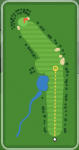
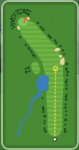
Course: hole 5's shortcut is a separate fairway island again (owner); kit keeps blend-0 fairways apart
Claude-Session: https://claude.ai/code/session_01Rv6NgAADw2XvfsDiNgoB5v

Changed region(s): [[0.3038, 0.3733, 0.557, 0.5067]]

diff --git a/tests/mtn.test.js b/tests/mtn.test.js
@@ -135,17 +135,21 @@ test('mtn-04: the lay-up leaves a wedge, a short pitch stays dry, a good 3 Wood 
   assert.ok(wet >= 8, `the creek is ${wet} m wide`);
 });
 
-test('mtn-05: carrying the pond reaches the fairway island; a weak carry is wet; the safe drive is longer in', () => {
-  const h = HOLES['mtn-05'], over = { x: -48, z: -226 };
-  for (const pk of [0.95, 0.9]) {
-    const e = shot(startAt(h, { x: 0, z: 0 }, 0), { at: over, club: 'driver', power: pk });
-    assert.equal(e.surface, 'fairway', `a ${pk * 100}% carry ends on ${e.surface}`);
-  }
-  assert.equal(shot(startAt(h, { x: 0, z: 0 }, 0), { at: over, club: 'driver', power: 1 }).ev, 'stopped', 'a full carry stays dry');
-  const brave = shot(startAt(h, { x: 0, z: 0 }, 0), { at: over, club: 'driver', power: 1 });
+test('mtn-05: the island beyond the pond is a separate target; missing it is dry rough; a weak carry is wet (owner)', () => {
+  const h = HOLES['mtn-05'], over = { x: -60, z: -217 };
+  const on = shot(startAt(h, { x: 0, z: 0 }, 0), { at: over, club: 'driver', power: 0.95 });
+  assert.equal(on.surface, 'fairway', `a 95% carry ends on ${on.surface}`);
+  for (const pk of [1, 0.9]) assert.equal(shot(startAt(h, { x: 0, z: 0 }, 0), { at: over, club: 'driver', power: pk }).ev, 'stopped', `a ${pk * 100}% carry stays dry`);
   assert.equal(shot(startAt(h, { x: 0, z: 0 }, 0), { at: over, club: 'driver', power: 0.85 }).ev, 'penalty');
+  // a strip of rough separates the island from the main fairway (owner: it reads as its own circle)
+  let gapRough = false;
+  for (let t = 0; t <= 1 && !gapRough; t += 0.02) {
+    const x = -60 + (-20 + 60) * t, z = -217 + (-260 + 217) * t;
+    if (h.surfaceAt(x, z) === 'rough') gapRough = true;
+  }
+  assert.ok(gapRough, 'rough between the island and the main fairway');
   const safe = shot(startAt(h, { x: 0, z: 0 }, 0));
-  assert.ok(safe.toCup > brave.toCup + 30, `safe leaves ${safe.toCup.toFixed(0)} m, brave ${brave.toCup.toFixed(0)} m`);
+  assert.ok(safe.toCup > on.toCup + 20, `safe leaves ${safe.toCup.toFixed(0)} m, brave ${on.toCup.toFixed(0)} m`);
 });
 
 test('mtn-06: the deep bunker is escaped with the Sand Wedge; the bank feeds a ball onto the green (PM #49)', () => {

diff --git a/tests/baseline-v2.shots.js b/tests/baseline-v2.shots.js
@@ -67,8 +67,8 @@ export const SHOTS = [
   { name: 'C mtn3 putt toward the creek', hole: 'mtn-03', seed: null, start: { x: 14, z: -172 }, strokes: 1, power: 0.6, acc: 0, aimOff: 0 },
   { name: 'C mtn4 3 Wood over the creek in two (95%)', hole: 'mtn-04', seed: null, start: { x: 0.5, z: -249 }, strokes: 1, power: 0.95, acc: 0, aimOff: 0, club: '3w' },
   { name: 'C mtn4 short pitch over the creek stays dry', hole: 'mtn-04', seed: null, start: { x: -31, z: -408 }, strokes: 2, power: 0.5, acc: 0, aimOff: 0 },
-  { name: 'C mtn5 carry the pond to the island, full Driver', hole: 'mtn-05', seed: null, start: { x: 0, z: 0 }, strokes: 0, power: 1, acc: 0, aimOff: -0.2181, club: 'driver' },
-  { name: 'C mtn5 into the pond (85%)', hole: 'mtn-05', seed: 7, start: { x: 0, z: 0 }, strokes: 0, power: 0.85, acc: 0, aimOff: -0.2181, club: 'driver', windless: true },
+  { name: 'C mtn5 carry the pond onto the island (95% Driver)', hole: 'mtn-05', seed: null, start: { x: 0, z: 0 }, strokes: 0, power: 0.95, acc: 0, aimOff: -0.2785, club: 'driver' },
+  { name: 'C mtn5 into the pond (85%)', hole: 'mtn-05', seed: 7, start: { x: 0, z: 0 }, strokes: 0, power: 0.85, acc: 0, aimOff: -0.2785, club: 'driver', windless: true },
   { name: 'C mtn5 putt down a tier', hole: 'mtn-05', seed: null, start: { x: -106, z: -362 }, strokes: 2, power: 0.5, acc: 0, aimOff: 0 },
   { name: 'C mtn6 the bank feeds it on (slight hook)', hole: 'mtn-06', seed: null, start: { x: 0, z: 0 }, strokes: 0, power: 0.9, acc: 0.07, aimOff: 0.1229 },
   { name: 'C mtn6 out of the deep bunker', hole: 'mtn-06', seed: null, start: { x: 12, z: -158 }, strokes: 1, power: 0.35, acc: 0, aimOff: 0 },

diff --git a/src/holes/mtn-course.js b/src/holes/mtn-course.js
@@ -168,9 +168,17 @@ export function makeMtnHole(spec0) {
       run += L;
     }
   });
+  // A fairway with blend: 0 is an island (owner, hole 5): it never melts into the others, so the
+  // rough between them stays visible. Islands join the rest with a plain minimum, after the blend.
   function fairwayGapRaw(x, z) {
-    let gap = Infinity;
+    let gap = Infinity, island = Infinity;
     for (const g of SEG) {
+      if (g.k === 0) {
+        const u = Math.min(1, Math.max(0, ((x - g.ax) * g.dx + (z - g.az) * g.dz) / g.L2));
+        const px = g.ax + g.dx * u - x, pz = g.az + g.dz * u - z;
+        island = Math.min(island, Math.sqrt(px * px + pz * pz) - (g.wa + (g.wb - g.wa) * u));
+        continue;
+      }
       const u = Math.min(1, Math.max(0, ((x - g.ax) * g.dx + (z - g.az) * g.dz) / g.L2));
       const px = g.ax + g.dx * u - x, pz = g.az + g.dz * u - z;
       const d2 = px * px + pz * pz, w = g.wa + (g.wb - g.wa) * u;
@@ -180,7 +188,7 @@ export function makeMtnHole(spec0) {
       const wob = 1 + g.wob * (0.6 * Math.sin(along / 17 + g.i * 1.7 + (x > 0 ? 0 : 2)) + 0.4 * Math.sin(along / 7.3 + g.i));
       gap = smin(gap, Math.sqrt(d2) - w * wob, g.k);
     }
-    return gap;
+    return Math.min(gap, island);
   }
   // Cached on a 1 m grid over the course (bilinear in between): every lookup is a few multiplies
   const GS = 2; // m per cell

diff --git a/src/holes/scenarios.js b/src/holes/scenarios.js
@@ -114,8 +114,8 @@ export const SCENARIOS = {
     name: 'Mountain 4: pitch over the creek', text: 'From the lay-up zone, about 60 m: pitch over the creek (now a real one, 8–10 m wide). Even a short one stays dry on the apron.',
   },
   'mtn5-carry-pond': {
-    hole: 'mtn-05', ball: { x: 0, z: 0 }, aimAt: { x: -48, z: -226 }, strokes: 0, seed: 1501, wind: { x: 0, z: 0 }, lie: 'tee',
-    name: 'Mountain 5: carry the pond', text: 'Aimed over the pond at the island of fairway beyond it. 90% or more makes it; 85% is wet.',
+    hole: 'mtn-05', ball: { x: 0, z: 0 }, aimAt: { x: -60, z: -217 }, strokes: 0, seed: 1501, wind: { x: 0, z: 0 }, lie: 'tee',
+    name: 'Mountain 5: carry the pond', text: 'Aimed over the pond at the small island of fairway beyond it, beside the trees. A 95% Driver lands on it; a bit more or less finds the rough around it; 85% is wet.',
   },
   'mtn5-bunker': {
     hole: 'mtn-05', ball: { x: 24, z: -236 }, strokes: 1, seed: 1502, lie: 'sand',

diff --git a/src/holes/mtn-05.js b/src/holes/mtn-05.js
@@ -34,7 +34,7 @@ export default makeMtnHole({
     // one flowing dogleg left (L4, L7), merging into the green (L9)
     { pts: [{ x: 0, z: -26, w: 12 }, { x: 0, z: -130, w: 19 }, { x: -2, z: -244, w: 23 }, { x: -46, z: -290, w: 19 }, { x: -84, z: -334, w: 15 }] },
     // the shortcut: a fairway island beyond the pond (owner: OK sometimes)
-    { pts: [{ x: -42, z: -214, w: 14 }, { x: -50, z: -230, w: 14 }], blend: 0 },
+    { pts: [{ x: -58, z: -210, w: 12 }, { x: -62, z: -224, w: 12 }], blend: 0 }, // an island: rough all round it (owner)
   ],
   bunkers: [
     // L5: on the outside of the corner, where the safe drive finishes
